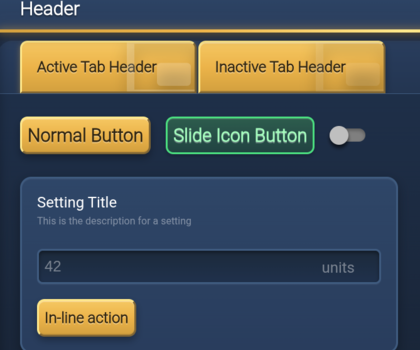
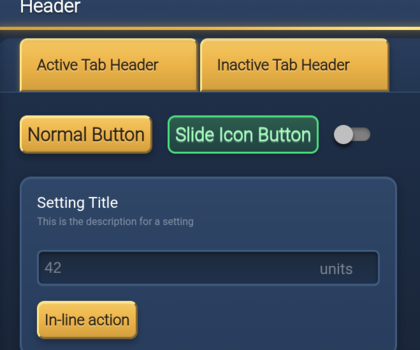
Fixed,  Good to go.

diff --git a/Tumeden-Quest/Tumeden-Quest.css b/Tumeden-Quest/Tumeden-Quest.css
@@ -371,6 +371,43 @@ input[type=submit]:active,
     box-shadow: 0 2px 6px rgba(237, 181, 72, 0.4);
 }
 
+.tabHeaderContainer .tabHeader {
+    position: relative;
+    overflow: hidden;
+    background: linear-gradient(180deg, #f5c962 0%, #edb548 50%, #d4a23c 100%) !important;
+    background-color: transparent !important;
+    background-image: linear-gradient(180deg, #f5c962 0%, #edb548 50%, #d4a23c 100%) !important;
+    background-size: auto !important;
+    background-position: center !important;
+    background-repeat: no-repeat !important;
+    color: #2a1f0a !important;
+}
+
+.tabHeaderContainer .tabHeader::before,
+.tabHeaderContainer .tabHeader::after {
+    content: none !important;
+    display: none !important;
+}
+
+.tabHeaderContainer .tabHeader .mat-icon,
+.tabHeaderContainer .tabHeader .icon {
+    width: 18px !important;
+    height: 18px !important;
+    min-width: 18px !important;
+    min-height: 18px !important;
+    font-size: 18px !important;
+    line-height: 18px !important;
+    opacity: 0.45;
+}
+
+.tabHeaderContainer .tabHeader [class*=Icon],
+.tabHeaderContainer .tabHeader [class*=icon],
+.tabHeaderContainer .tabHeader img,
+.tabHeaderContainer .tabHeader svg {
+    display: none !important;
+    visibility: hidden !important;
+}
+
 /* Color Variants - More vibrant */
 .bgBlue {
     background: linear-gradient(180deg, rgba(61, 130, 189, 0.4) 0%, rgba(34, 91, 139, 0.3) 100%) !important;